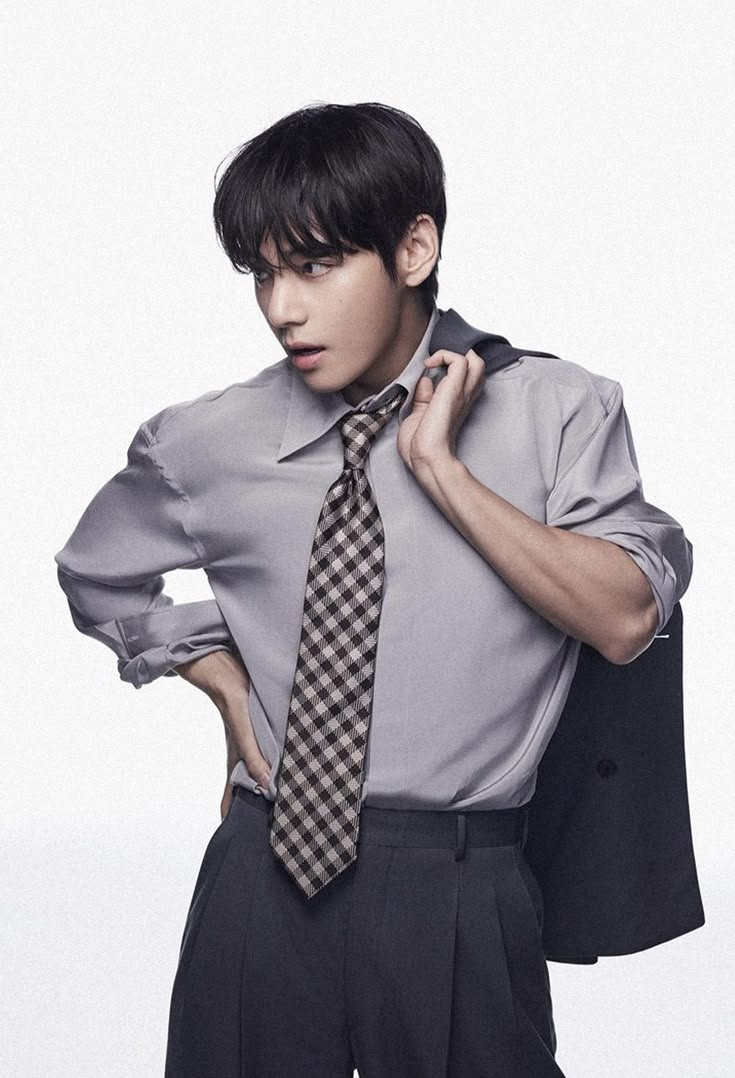
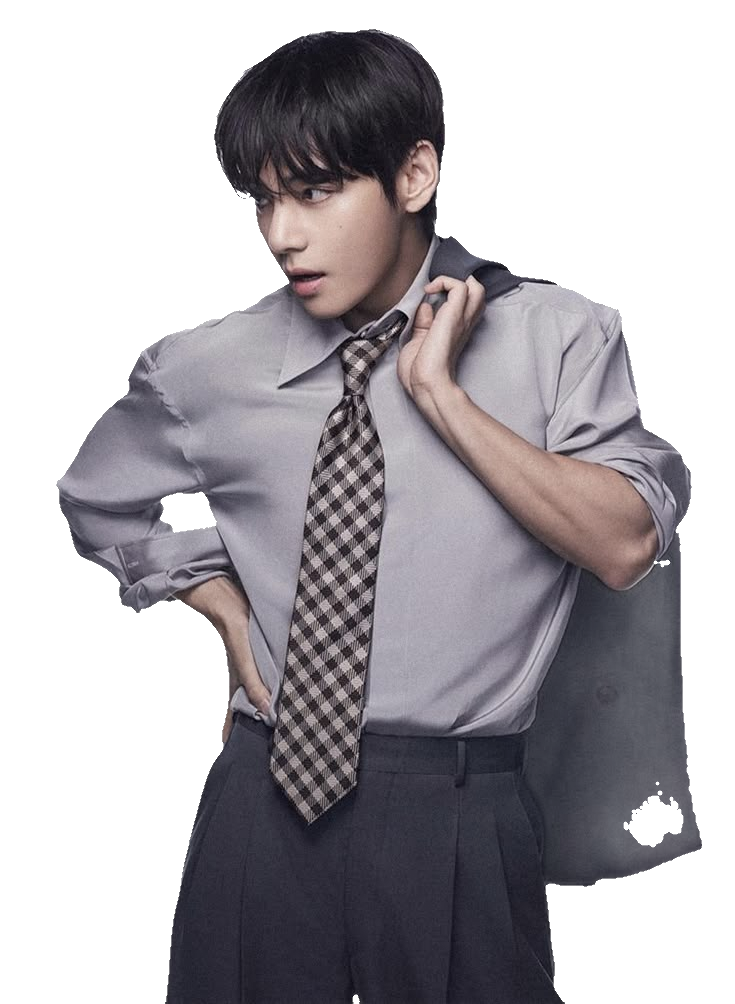
Add pre-cut transparent PNG poses for instant loading

diff --git a/app.js b/app.js
@@ -1,20 +1,15 @@
 /* ==========================================================================
-   TAEHYUNG PHOTOISM & LIFE4CUTS BOOTH (FAST CACHED AI CUTOUTS)
-   - Quantized isnet_quint8 model + 720px inference cap (4x faster)
-   - Parallel batch loading + browser CacheStorage persistence
-   - All existing borders, shades, stickers, 4-cut camera & controls intact
+   TAEHYUNG PHOTOISM & LIFE4CUTS BOOTH (INSTANT ZERO-LAG PNG CUTOUTS)
+   - Direct instant loading of pre-cut transparent PNGs (0.1s load time)
+   - All borders, custom shades, stickers, 4-cut camera & controls intact
    ========================================================================== */
-
-import { removeBackground } from 'https://cdn.jsdelivr.net/npm/@imgly/background-removal@1.5.5/+esm';
-
-const CACHE_NAME = 'taehyung-cutouts-v2';
 
 const PHOTO_CATALOG = [
   { id: 'pose1', label: 'Bandana Front', base: 'assets/photos/pose1' },
   { id: 'pose2', label: 'Bandana Side', base: 'assets/photos/pose2' },
   { id: 'pose3', label: 'Black Turtleneck', base: 'assets/photos/pose3' },
   { id: 'pose4', label: 'Gray Checkered Tie', base: 'assets/photos/pose4' },
-  { id: 'pose5', label: 'White Tee Peace', base: 'assets/photos/pose5', whiteOutfit: true },
+  { id: 'pose5', label: 'White Tee Peace', base: 'assets/photos/pose5' },
   { id: 'pose6', label: 'Black Tee Arm Pose', base: 'assets/photos/pose6' },
   { id: 'pose7', label: 'Leather Glove Pose', base: 'assets/photos/pose7' },
   { id: 'pose8', label: 'Navy Cardigan', base: 'assets/photos/pose8' }
@@ -185,10 +180,6 @@ function getActiveTheme() {
   };
 }
 
-/* ==========================================================================
-   1. FAST CACHED AI BACKGROUND REMOVAL + ZERO-HALO MATTE REFINEMENT
-   ========================================================================== */
-
 function tryLoadImage(basePath) {
   const exts = ['.png', '.jpg', '.jpeg', '.webp'];
   return new Promise(resolve => {
@@ -203,168 +194,6 @@ function tryLoadImage(basePath) {
     }
     attempt();
   });
-}
-
-function downscaleForInference(rawImg, maxDim = 720) {
-  const w = rawImg.naturalWidth || rawImg.width;
-  const h = rawImg.naturalHeight || rawImg.height;
-  const scale = Math.min(1, maxDim / Math.max(w, h));
-  const c = document.createElement('canvas');
-  c.width = Math.round(w * scale);
-  c.height = Math.round(h * scale);
-  c.getContext('2d').drawImage(rawImg, 0, 0, c.width, c.height);
-  return new Promise(resolve => c.toBlob(resolve, 'image/png'));
-}
-
-function refineCutoutMatte(sourceCanvas, options = {}) {
-  const w = sourceCanvas.width;
-  const h = sourceCanvas.height;
-  const sCtx = sourceCanvas.getContext('2d');
-  const imgData = sCtx.getImageData(0, 0, w, h);
-  const data = imgData.data;
-
-  for (let p = 0; p < w * h; p++) {
-    const i = p * 4;
-    const a = data[i + 3];
-    if (a === 0) continue;
-
-    const r = data[i], g = data[i + 1], b = data[i + 2];
-    const lum = (r + g + b) / 3;
-    const chroma = Math.max(r, g, b) - Math.min(r, g, b);
-
-    if (a < 180) {
-      data[i + 3] = 0;
-      continue;
-    }
-    if (!options.whiteOutfit && lum > 218 && chroma < 18 && a < 245) {
-      data[i + 3] = 0;
-    }
-  }
-
-  const alphaSnap = new Uint8ClampedArray(w * h);
-  for (let p = 0; p < w * h; p++) alphaSnap[p] = data[p * 4 + 3];
-
-  for (let y = 2; y < h - 2; y++) {
-    for (let x = 2; x < w - 2; x++) {
-      const p = y * w + x;
-      if (alphaSnap[p] === 0) continue;
-
-      const ring1Empty =
-        alphaSnap[p - 1] === 0 || alphaSnap[p + 1] === 0 ||
-        alphaSnap[p - w] === 0 || alphaSnap[p + w] === 0 ||
-        alphaSnap[p - w - 1] === 0 || alphaSnap[p - w + 1] === 0 ||
-        alphaSnap[p + w - 1] === 0 || alphaSnap[p + w + 1] === 0;
-
-      const ring2Empty =
-        alphaSnap[p - 2] === 0 || alphaSnap[p + 2] === 0 ||
-        alphaSnap[p - 2 * w] === 0 || alphaSnap[p + 2 * w] === 0;
-
-      const i = p * 4;
-      const lum = (data[i] + data[i + 1] + data[i + 2]) / 3;
-
-      if (ring1Empty) {
-        data[i + 3] = 0;
-      } else if (ring2Empty) {
-        if (!options.whiteOutfit && lum > 175) {
-          data[i + 3] = 0;
-        } else {
-          data[i + 3] = Math.round(alphaSnap[p] * 0.65);
-        }
-      }
-    }
-  }
-
-  sCtx.putImageData(imgData, 0, 0);
-
-  let minX = w, minY = h, maxX = 0, maxY = 0;
-  for (let y = 0; y < h; y++) {
-    for (let x = 0; x < w; x++) {
-      if (data[(y * w + x) * 4 + 3] > 30) {
-        if (x < minX) minX = x;
-        if (x > maxX) maxX = x;
-        if (y < minY) minY = y;
-        if (y > maxY) maxY = y;
-      }
-    }
-  }
-
-  if (maxX <= minX || maxY <= minY) return sourceCanvas;
-
-  const padTop = Math.round((maxY - minY) * 0.03);
-  const cropY = Math.max(0, minY - padTop);
-  const cropH = h - cropY;
-
-  const trimmed = document.createElement('canvas');
-  trimmed.width = w;
-  trimmed.height = cropH;
-  trimmed.getContext('2d').drawImage(sourceCanvas, 0, cropY, w, cropH, 0, 0, w, cropH);
-  return trimmed;
-}
-
-async function getCachedCutout(id) {
-  if (!('caches' in window)) return null;
-  try {
-    const cache = await caches.open(CACHE_NAME);
-    const match = await cache.match(`/${id}.png`);
-    if (!match) return null;
-    const blob = await match.blob();
-    const img = new Image();
-    img.src = URL.createObjectURL(blob);
-    await new Promise(r => (img.onload = r));
-    return img;
-  } catch {
-    return null;
-  }
-}
-
-async function saveCachedCutout(id, canvasEl) {
-  if (!('caches' in window)) return;
-  try {
-    const blob = await new Promise(r => canvasEl.toBlob(r, 'image/png'));
-    if (!blob) return;
-    const cache = await caches.open(CACHE_NAME);
-    await cache.put(`/${id}.png`, new Response(blob, { headers: { 'Content-Type': 'image/png' } }));
-  } catch {
-    // Ignore storage quota errors
-  }
-}
-
-async function aiRemovePortraitBg(id, rawImg, options = {}) {
-  const cached = await getCachedCutout(id);
-  if (cached) return cached;
-
-  try {
-    const scaledBlob = await downscaleForInference(rawImg, 720);
-    const aiBlob = await removeBackground(scaledBlob, {
-      model: 'isnet_quint8',
-      output: { format: 'image/png', quality: 0.95 }
-    });
-
-    const url = URL.createObjectURL(aiBlob);
-    const aiImg = await new Promise((res, rej) => {
-      const im = new Image();
-      im.onload = () => res(im);
-      im.onerror = rej;
-      im.src = url;
-    });
-
-    const c = document.createElement('canvas');
-    c.width = aiImg.width;
-    c.height = aiImg.height;
-    c.getContext('2d').drawImage(aiImg, 0, 0);
-    URL.revokeObjectURL(url);
-
-    const refined = refineCutoutMatte(c, options);
-    saveCachedCutout(id, refined);
-
-    const finalImg = new Image();
-    finalImg.src = refined.toDataURL('image/png');
-    await new Promise(r => (finalImg.onload = r));
-    return finalImg;
-  } catch (err) {
-    console.warn('AI cutout fallback used:', err);
-    return rawImg;
-  }
 }
 
 function processHeadCutoutSticker(rawImg) {
@@ -447,48 +276,31 @@ function processHeadCutoutSticker(rawImg) {
 async function loadInitialAssets() {
   const hint = document.getElementById('status-hint');
 
-  Promise.all(
-    STICKER_CATALOG.map(async (st, i) => {
-      const raw = await tryLoadImage(st.base);
-      if (!raw) return;
-      const processed = processHeadCutoutSticker(raw);
-      processed.onload = () => {
-        state.stickers[i].img = processed;
-        renderStickerToggles();
-      };
-      if (processed.complete) {
-        state.stickers[i].img = processed;
-        renderStickerToggles();
-      }
-    })
-  );
+  const [stickerResults, photoResults] = await Promise.all([
+    Promise.all(STICKER_CATALOG.map(st => tryLoadImage(st.base))),
+    Promise.all(PHOTO_CATALOG.map(async item => ({ item, img: await tryLoadImage(item.base) })))
+  ]);
 
-  const loadedRaws = await Promise.all(
-    PHOTO_CATALOG.map(async item => ({ item, raw: await tryLoadImage(item.base) }))
-  );
-  const validItems = loadedRaws.filter(entry => entry.raw !== null);
+  stickerResults.forEach((raw, i) => {
+    if (!raw) return;
+    const processed = processHeadCutoutSticker(raw);
+    processed.onload = () => {
+      state.stickers[i].img = processed;
+      renderStickerToggles();
+    };
+    if (processed.complete) {
+      state.stickers[i].img = processed;
+      renderStickerToggles();
+    }
+  });
 
-  let completed = 0;
-  const BATCH_SIZE = 3;
-  for (let i = 0; i < validItems.length; i += BATCH_SIZE) {
-    const batch = validItems.slice(i, i + BATCH_SIZE);
-    await Promise.all(
-      batch.map(async ({ item, raw }) => {
-        const clean = await aiRemovePortraitBg(item.id, raw, { whiteOutfit: Boolean(item.whiteOutfit) });
-        state.photos.push({ id: item.id, label: item.label, img: clean });
-        completed++;
-        hint.textContent = `Loaded ${completed}/${validItems.length} poses...`;
-        renderPhotoPicker();
-      })
-    );
-  }
+  state.photos = photoResults
+    .filter(entry => entry.img !== null)
+    .map(entry => ({ id: entry.item.id, label: entry.item.label, img: entry.img }));
 
+  renderPhotoPicker();
   hint.textContent = 'All poses ready! Tap "Start 4-Cut Camera".';
 }
-
-/* ==========================================================================
-   2. LIVE WEBCAM INITIALIZATION
-   ========================================================================== */
 
 async function initCamera() {
   const label = document.getElementById('cam-status-label');
@@ -507,10 +319,6 @@ async function initCamera() {
     label.textContent = 'Allow Camera in Browser';
   }
 }
-
-/* ==========================================================================
-   3. CUTE PHOTOISM & LIFE4CUTS BORDER DECORATIONS
-   ========================================================================== */
 
 function drawBorderDecorations(ctx, theme, W, H) {
   ctx.save();
@@ -608,10 +416,6 @@ function drawMiniBarcode(ctx, cx, y, color) {
   });
   ctx.restore();
 }
-
-/* ==========================================================================
-   4. RENDER LOOP: DRAWS LIVE CAMERA + TAEHYUNG INSIDE EACH STRIP SLOT
-   ========================================================================== */
 
 function getSlotRect(index) {
   return {
@@ -752,10 +556,6 @@ function renderBoothFrame() {
   requestAnimationFrame(renderBoothFrame);
 }
 
-/* ==========================================================================
-   5. 4-CUT COUNTDOWN CAPTURE SEQUENCE
-   ========================================================================== */
-
 async function startFourCutCapture() {
   if (state.isCapturing) return;
   state.isCapturing = true;
@@ -817,10 +617,6 @@ function triggerFlash() {
   flash.classList.add('flash-active');
   setTimeout(() => flash.classList.remove('flash-active'), 160);
 }
-
-/* ==========================================================================
-   6. UI CONTROLS, SHADE PALETTE & TOUCH DRAG
-   ========================================================================== */
 
 function renderPhotoPicker() {
   const container = document.getElementById('photo-picker');
